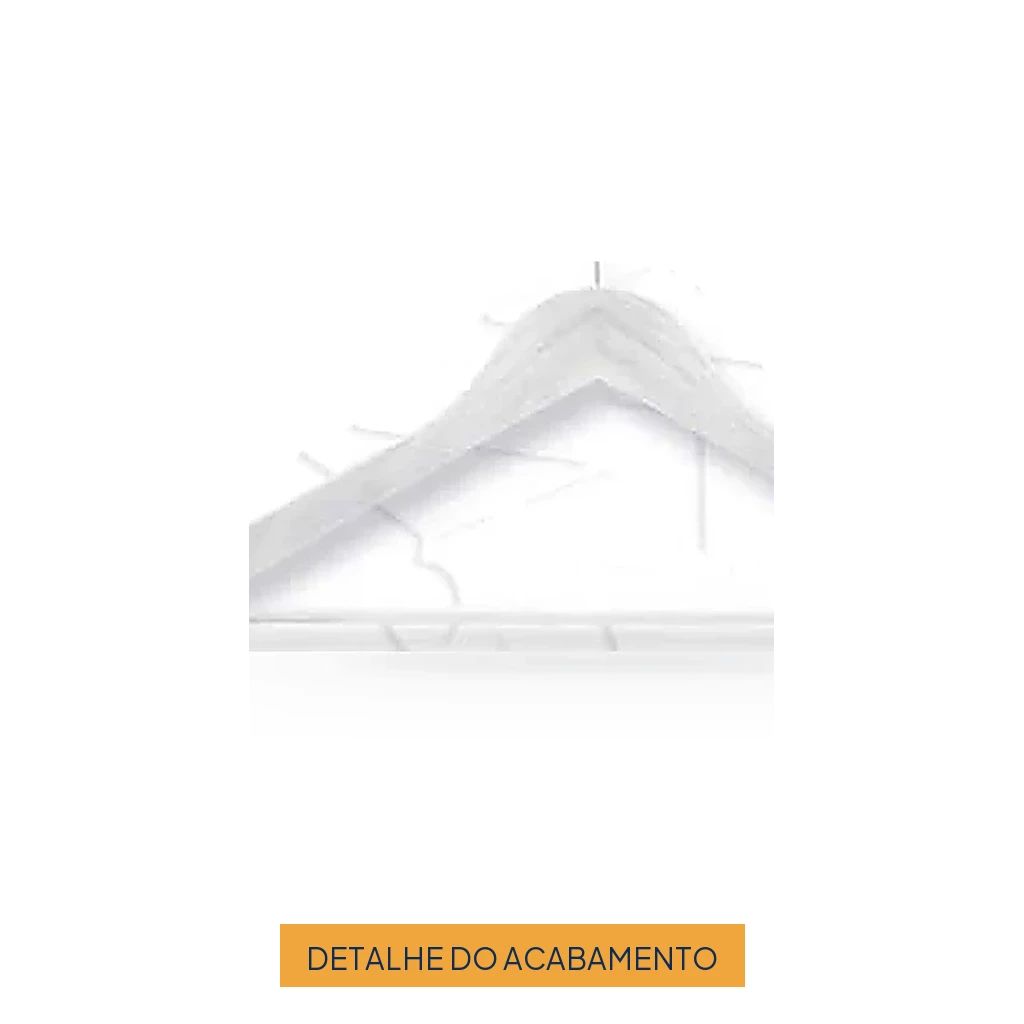
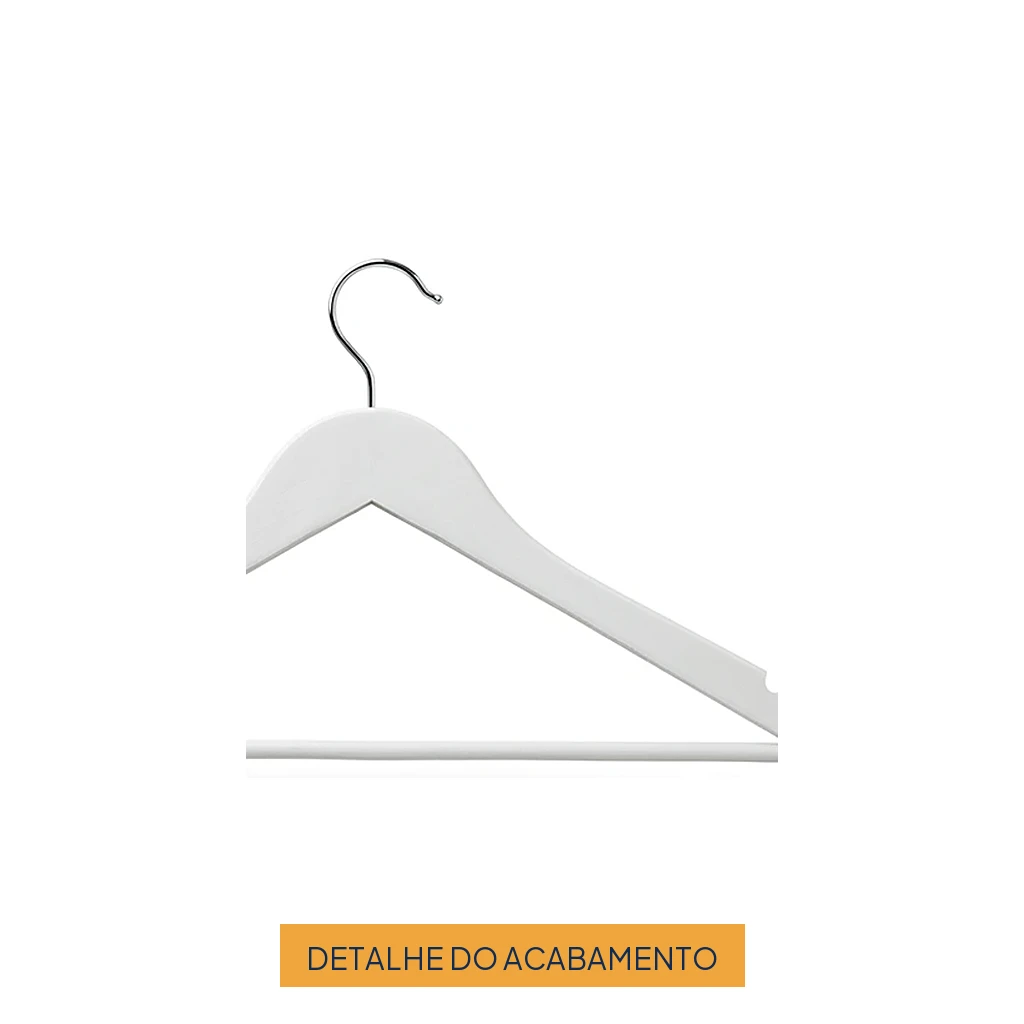
Capas recriadas por IA (Gemini img2img fiel à referência)
- 3 madeiras infantis marfim (p16 suja) recriadas em qualidade de estúdio
- 4220br e 4221br: os BRANCOS que não existiam no PDF, recriados a partir do
  irmão marfim com pintura branca fosca + gancho cromado (aprovação visual 1 a 1)
- closes das 5 regenerados a partir das capas novas

Changed region(s): [[0.2188, 0.25, 0.7812, 0.75], [0.3125, 0.25, 0.4062, 0.3438], [0.4062, 0.2812, 0.4375, 0.3125]]

diff --git a/index.html b/index.html
@@ -525,7 +525,7 @@
     <svg viewBox="0 0 32 32"><path d="M16 3C9.4 3 4 8.3 4 14.9c0 2.6.8 5 2.3 7L4 29l7.3-2.3c1.5.8 3.1 1.2 4.7 1.2 6.6 0 12-5.3 12-11.9S22.6 3 16 3zm0 21.8c-1.5 0-3-.4-4.3-1.1l-.3-.2-4.3 1.4 1.4-4.2-.2-.3c-1.3-1.6-2-3.6-2-5.6 0-5.4 4.4-9.8 9.7-9.8s9.7 4.4 9.7 9.8-4.4 10-9.7 10zm5.4-7.3c-.3-.2-1.7-.9-2-1s-.5-.2-.7.2-.8 1-.9 1.2-.3.2-.6.1c-.3-.2-1.2-.5-2.4-1.5-.9-.8-1.5-1.8-1.6-2.1s0-.4.1-.6c.1-.1.3-.3.4-.5s.2-.3.3-.5 0-.4 0-.5c-.1-.2-.7-1.7-1-2.3-.2-.6-.5-.5-.7-.5h-.6c-.2 0-.5.1-.8.4s-1.1 1.1-1.1 2.6 1.1 3 1.3 3.2c.2.2 2.2 3.4 5.4 4.8.8.3 1.4.5 1.8.7.8.2 1.5.2 2 .1.6-.1 1.7-.7 2-1.4s.3-1.3.2-1.4-.3-.2-.6-.4z" fill="currentColor"/></svg>
   </a>
 
-  <script src="js/produtos.js?v=20260814d"></script>
+  <script src="js/produtos.js?v=20260814e"></script>
   <script src="js/produtos-araras.js?v=20260813a"></script>
   <script src="js/main.js?v=20260814b"></script>
 </body>
